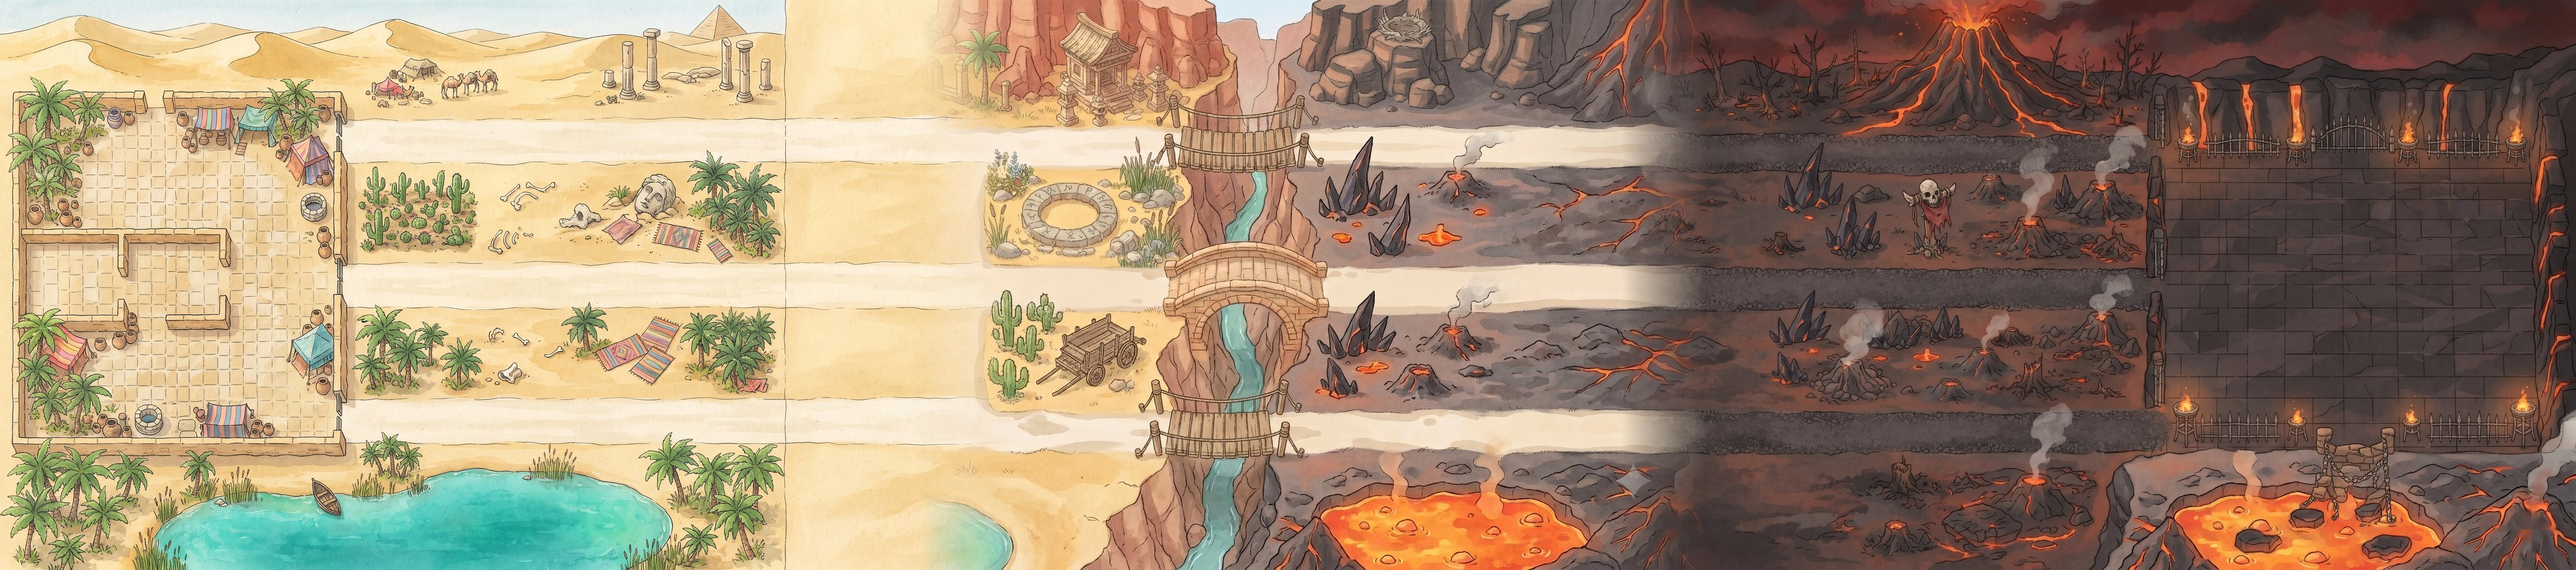
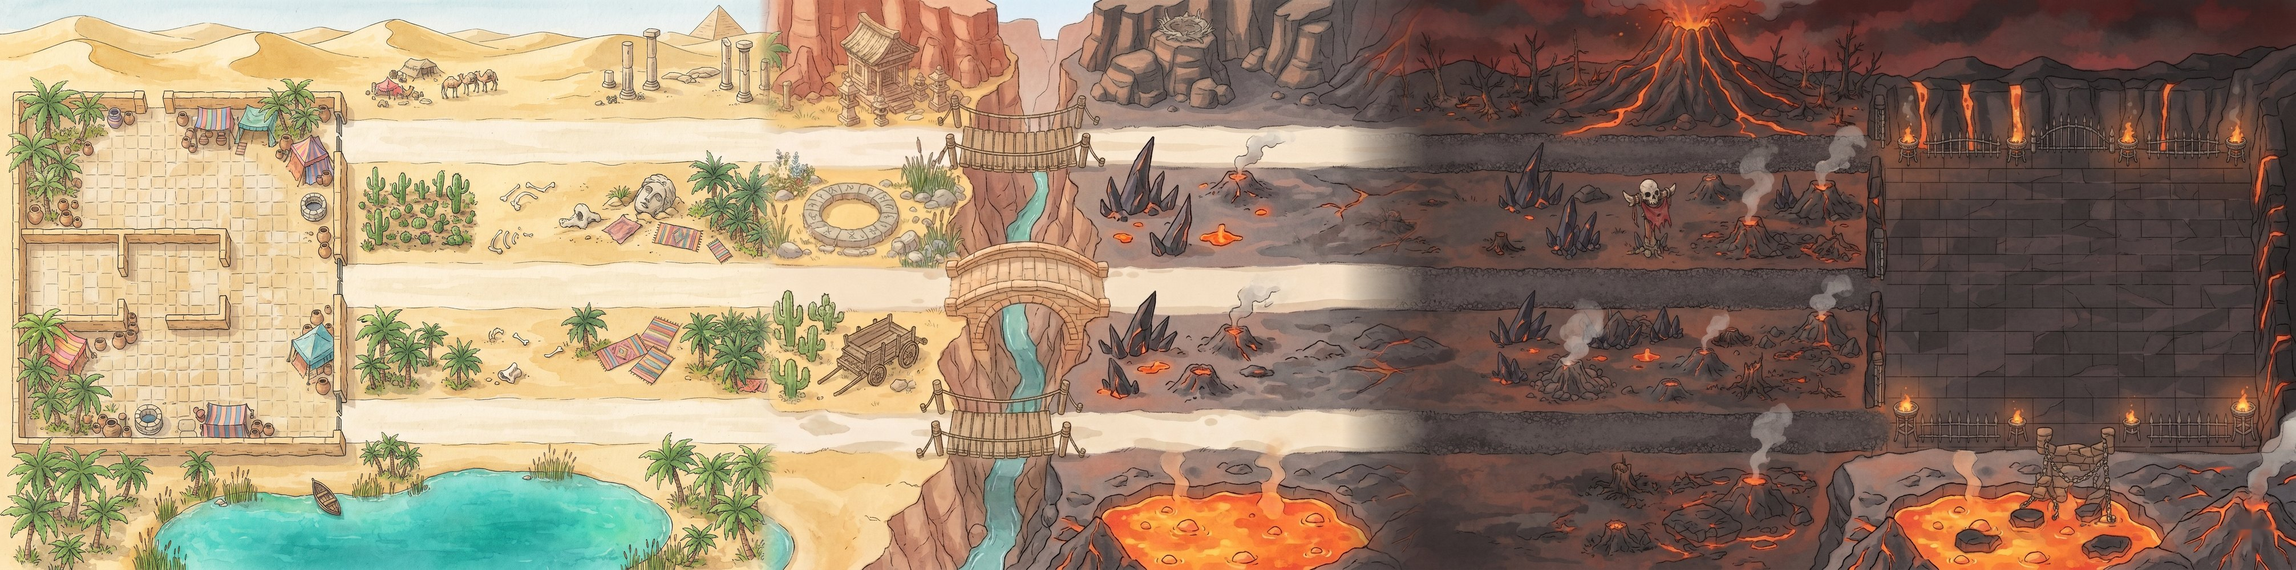
sprout v5.0: 기술 버튼을 크게·엄지 부채꼴 배치, 사막 맵 빈 띠·세로 줄 제거, 벚꽃 맵 반짝이 자국 제거
Claude-Session: https://claude.ai/code/session_01D8ERGz5r4FPkuXoKDYhqRw

diff --git a/sprout/index.html b/sprout/index.html
@@ -3,7 +3,7 @@
 <head>
 <meta charset="utf-8">
 <meta name="viewport" content="width=device-width,initial-scale=1,viewport-fit=cover,user-scalable=no">
-<title>새싹 원정대 v4.9</title>
+<title>새싹 원정대 v5.0</title>
 <meta name="theme-color" content="#2f4a2c">
 <style>
 :root{--ink:#3a2f22;--cream:#fbf5e6}
@@ -67,7 +67,7 @@ addEventListener('resize',fit);fit();
 /* ---------- 이미지 ---------- */
 const IMG={};const NAMES=['sprout','hedgehog','fox','bunny','owl','frog','sheep','baker','sprite_e0','sprite_e1','sprite_e2','sprite_e3','boss','bg_forest','p_idle','p_run','p_swing','p_jump','p_cast','fx_leaf','fox_idle','fox_shoot','bunny_idle','bunny_heal','hedgehog_idle','hedgehog_atk','sheep_idle','sheep_atk','ground','plat','bg_village','bg_marsh','m_e0','m_e1','m_e2','m_e3','boss2','it_bread','it_clover','it_mush','it_star','it_twig','it_seed','it_chest','it_jar','owl_idle','owl_cast','frog_idle','frog_play','baker','rival','thief','castle_me','castle_foe','fg1','fg2','fg3','vfx_slash','vfx_heal','vfx_hit','vfx_lvup','vfx_star','vfx_leaf','fox_w1','fox_w2','fox_w3','fox_a','sheep_w1','sheep_w2','sheep_w3','sheep_a','bunny_w1','bunny_w2','bunny_w3','bunny_a','owl_w1','owl_w2','owl_w3','owl_a','dmg_n','dmg_c','board','chest','trophy','bg_duel','bg_wide','bg_desert','bg_blossom','bg_world','b_fox','b_sheep','b_bunny','b_hedgehog','b_owl','b_frog','b_ice','b_spire','tw_me','tw_foe','hb0','hb1','hb2','hb3','frost_h0','frost_h1','frost_h2','frost_h3','thief_h0','thief_h1','thief_h2','thief_h3','baker_h0','baker_h1','baker_h2','baker_h3','p_run2','p_k1','p_k2','p_k3','p_k4','p_k5','p_rc0','p_rc1','p_rc2','p_rc3','p_rc4','p_rc5','p_rc6','p_rc7','p_rt0','p_rt1','p_rt2','p_rt3','p_rt4','p_rt5','p_rt6','p_rt7','p_jc','p_jr','p_jf','p_jl','bg_canyon','castle_lava','castle_ghost','jg_dragon','jg_icedragon','bush','heal_fruit','lv_e0','lv_e1','lv_e2','lv_e3','lv_m0','lv_m1','lv_m2','lv_m3','gh_e0','gh_e1','gh_e2','gh_e3','gh_m0','gh_m1','gh_m2','gh_m3','hj_knight','hj_assassin','hj_lancer','hj_bear','hj_elf','hj_raccoon','hj_mage','hj_deer','tw_lv','b_lv1','b_lv2','sp_lv','tw_gh','b_gh1','b_gh2','sp_gh'];
 let loaded=0,loadedS=0;const NSM=[...new Set(NAMES.filter(n=>!n.startsWith('bg_')))],NBG=[...new Set(NAMES.filter(n=>n.startsWith('bg_')))];
-function ldImg(n){const i=IMG[n];if(i.getAttribute('src'))return;i.src='img/'+n+(n.startsWith('bg_')?'.jpg':'.webp')+'?v=7'}
+function ldImg(n){const i=IMG[n];if(i.getAttribute('src'))return;i.src='img/'+n+(n.startsWith('bg_')?'.jpg':'.webp')+'?v=8'}
 [...NSM,...NBG].forEach(n=>{const i=new Image(),sm=!n.startsWith('bg_');i.onload=i.onerror=()=>{loaded++;if(sm){loadedS++;if(loadedS>=NSM.length)NBG0().forEach(ldImg)}};IMG[n]=i;});
 const MAPBG=['bg_wide','bg_desert','bg_blossom','bg_world','bg_canyon'],NBG0=()=>NBG.filter(n=>!MAPBG.includes(n));
 NSM.forEach(ldImg);['bg_duel','bg_village'].forEach(ldImg);setTimeout(()=>NBG0().forEach(ldImg),6000);
@@ -991,7 +991,7 @@ function drawDuel(dt){const D=DU;btns=[];
  if(!D.maze){const x=346,y=12,w=74,h=30,bk=D.view==='back';card(x,y,w,h,15,.88);ctx.fillStyle=bk?'#b0461a':'#5a3d22';ctx.font='900 12px system-ui';ctx.fillText(bk?'📷 뒤 시점':'📷 시점',x+9,y+20);btns.push({x,y:y-4,w,h:h+8,cb:()=>{DU.view=DU.view==='back'?null:'back';if(DU.view==='back'&&!SV.rpg&&DU.mode==='cmd'){}DU.banner={t:1.4,txt:DU.view==='back'?'📷 영웅 등 뒤에서 봐요 · 위로 끌면 앞으로':'📷 위에서 봐요',small:1};SFX.get()}})}
  {const on=!!SV.rpg,x=12,y=44,w=118,h=22;ctx.fillStyle=on?'rgba(255,216,74,.95)':'rgba(40,32,24,.72)';roundRect(x,y,w,h,11);ctx.fill();ctx.strokeStyle=on?'#8a5a1a':'rgba(224,165,58,.8)';ctx.lineWidth=1.4;roundRect(x,y,w,h,11);ctx.stroke();ctx.font='900 11.5px system-ui';ctx.fillStyle=on?'#4a2c14':'#ffe9a8';ctx.fillText(on?'🎮 영웅 조종 켜짐':'🎮 영웅 직접 조종',x+9,y+15.5);if(SV.rpg==null){ctx.save();ctx.globalAlpha=.5+.5*Math.sin(D.t*5);ctx.strokeStyle='#ffe07a';ctx.lineWidth=2.5;roundRect(x-3,y-3,w+6,h+6,13);ctx.stroke();ctx.fillStyle='#ff5a4a';ctx.beginPath();ctx.arc(x+w-2,y+2,5,0,7);ctx.fill();ctx.restore()}btns.push({x:x-2,y:y-4,w:w+4,h:h+8,cb:()=>{SV.rpg=!SV.rpg;save();SFX.get();DU.stick=null;DU.banner={t:1.6,txt:SV.rpg?'🎮 영웅 조종! 화면을 끌어서 움직여요':'자동 영웅으로 바꿨어요',small:1}}})}
  if(SV.rpg&&!D.done&&!D.pick){const hu=D.H[1].u,Hh=D.H[1],L=[['smash','⚔','강타',4,'atk'],['water','💧','물보라',6,'skill'],['rain','🌿','치유',9,'jump'],['ult','🌟','폭풍',22,'friend']].filter(q=>q[0]==='smash'||(q[0]==='ult'?Hh.job:Hh.sk[q[0]])).map(q=>q[0]==='smash'&&hu&&HUS[hu.hk]?['smash',HUS[hu.hk][0],HUS[hu.hk][1],HUS[hu.hk][2],'atk']:q);
-  (D.maze?[]:L).forEach((q,i)=>{const cx=W-34-i*54,cy=fb-30,r=22,cd=hu?Math.max(0,hu.skT[q[0]]||0):0,rdy=hu&&cd<=0;ctx.save();ctx.globalAlpha=hu?1:.45;ctx.fillStyle='rgba(30,20,10,.35)';ctx.beginPath();ctx.arc(cx+1.5,cy+3,r,0,7);ctx.fill();const g=ctx.createRadialGradient(cx-6,cy-8,2,cx,cy,r);g.addColorStop(0,rdy?'#fffdf0':'#cfc6b4');g.addColorStop(1,rdy?'#ffd98a':'#8f8672');ctx.fillStyle=g;ctx.beginPath();ctx.arc(cx,cy,r,0,7);ctx.fill();ctx.strokeStyle='#5a3a1a';ctx.lineWidth=2.2;ctx.stroke();ctx.font='20px system-ui';ctx.textAlign='center';ctx.fillStyle='#000';ctx.fillText(q[1],cx,cy+7);
+  (D.maze?[]:L).forEach((q,i)=>{const r=i?28:38,mx=W-50,my=fb-48,ag=[0,3.1416,3.927,4.7124][i]||0,cx=i?mx+Math.cos(ag)*84:mx,cy=i?my+Math.sin(ag)*84:my,cd=hu?Math.max(0,hu.skT[q[0]]||0):0,rdy=hu&&cd<=0;ctx.save();ctx.globalAlpha=hu?1:.45;ctx.fillStyle='rgba(30,20,10,.35)';ctx.beginPath();ctx.arc(cx+1.5,cy+3,r,0,7);ctx.fill();const g=ctx.createRadialGradient(cx-6,cy-8,2,cx,cy,r);g.addColorStop(0,rdy?'#fffdf0':'#cfc6b4');g.addColorStop(1,rdy?'#ffd98a':'#8f8672');ctx.fillStyle=g;ctx.beginPath();ctx.arc(cx,cy,r,0,7);ctx.fill();ctx.strokeStyle='#5a3a1a';ctx.lineWidth=2.2;ctx.stroke();ctx.font=(i?24:34)+'px system-ui';ctx.textAlign='center';ctx.fillStyle='#000';ctx.fillText(q[1],cx,cy+(i?8:12));
    if(cd>0&&hu){ctx.fillStyle='rgba(20,14,8,.55)';ctx.beginPath();ctx.moveTo(cx,cy);ctx.arc(cx,cy,r,-1.5708,-1.5708+6.2832*Math.min(1,cd/q[3]));ctx.closePath();ctx.fill();ctx.font='900 14px system-ui';ctx.lineWidth=3;ctx.strokeStyle='#20160c';ctx.strokeText(Math.ceil(cd),cx,cy+5);ctx.fillStyle='#fff';ctx.fillText(Math.ceil(cd),cx,cy+5)}
    else if(rdy&&i===0){ctx.globalAlpha=.5+.3*Math.sin(D.t*5);ctx.strokeStyle='#fff6c8';ctx.lineWidth=2;ctx.beginPath();ctx.arc(cx,cy,r+3,0,7);ctx.stroke()}
    ctx.restore();ctx.textAlign='left';btns.push({x:cx-r-4,y:cy-r-4,w:r*2+8,h:r*2+8,cb:()=>{if(DU.H[1].u)DU.castQ=q[0]}});if(pressed(q[4])&&hu)D.castQ=q[0]});
@@ -1334,7 +1334,7 @@ function drawTitle(dt){
  button(W-232,H-58,104,40,'📖 도감',()=>{scene='book'},'#cfe7b8');
  button(W-120,H-58,104,40,SV.mute?'🔇 음악':'🎵 음악',()=>{SV.mute=!SV.mute;save();if(SV.mute)bgmStop();else bgmStart()},'#e7e0f6');
  btns.unshift({x:0,y:0,w:W,h:H,cb:startGame});
- ctx.fillStyle='rgba(58,41,30,.7)';ctx.font='bold 12px system-ui';ctx.fillText('v4.9 · 가벼운 고화질 시험판 · 효과음 Kenney (CC0)',14,H-14);
+ ctx.fillStyle='rgba(58,41,30,.7)';ctx.font='bold 12px system-ui';ctx.fillText('v5.0 · 큰 기술 버튼 시험판 · 효과음 Kenney (CC0)',14,H-14);
  if(loaded<NAMES.length){ctx.fillStyle='#fff';ctx.font='bold 13px system-ui';ctx.fillText('그림 불러오는 중… '+loaded+'/'+NAMES.length,14,24)}
  // 꽃잎 (천천히)
  for(let i=0;i<22;i++){const sp=18+(i%5)*6,x=((i*137+titleT*sp*1.4)%(W+80))-40,y=((i*89+titleT*(sp+10))%(H+60))-30;ctx.save();ctx.translate(x,y);ctx.rotate(titleT*.8+i);ctx.fillStyle=i%3?'rgba(255,214,228,.75)':'rgba(255,240,200,.7)';ctx.beginPath();ctx.ellipse(0,0,6,3,0,0,7);ctx.fill();ctx.restore()}
